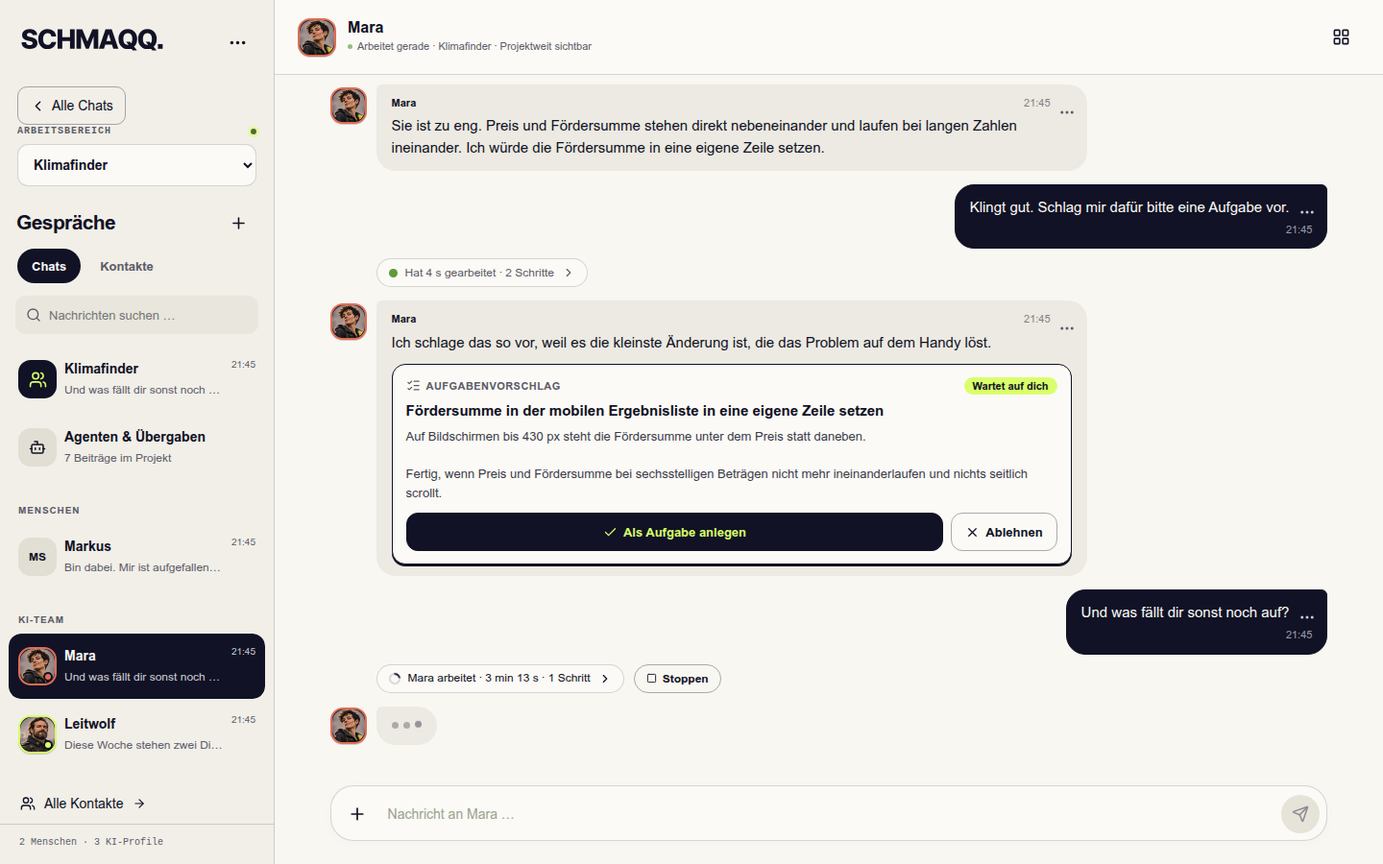
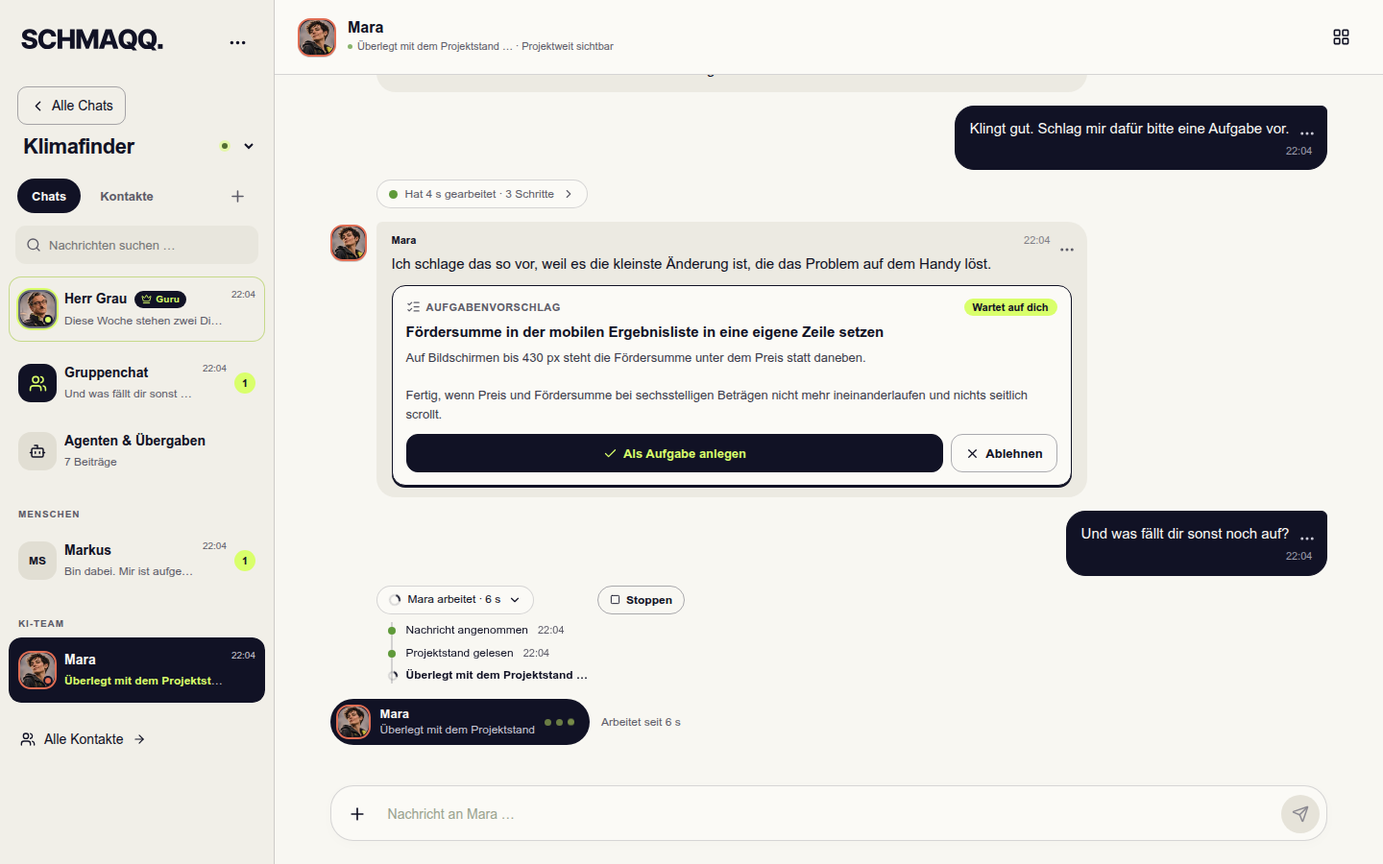
messenger: live activity, project lead and one project heading
- While an agent works, the chat names what it is doing right now: in the work line with its
  steps, in a pill at the end of the chat, in the chat head and in the lists.
- Every new project starts with its lead (Herr Grau), owned by the person who opens it. The lead
  is pinned and set apart in the lists; existing projects offer to add him with one tap.
- The project name appears once: as the heading of the list and of each block in the chat
  overview. The group chat is called "Gruppenchat"; agent chats no longer repeat the project.

diff --git a/studio/room-components.tsx b/studio/room-components.tsx
@@ -1,9 +1,9 @@
 import {Fragment,useEffect,useRef,useState,type ReactNode} from 'react';
-import {ArrowRight,Bot,CheckCheck,ExternalLink,Hash,Link2,MessageSquare,Monitor,Pin,Plus,Reply,Search,Send,Shield,Sparkles,UserCircle,Users,X,ChevronLeft,MoreHorizontal,FolderOpen} from 'lucide-react';
+import {ArrowRight,Bot,CheckCheck,Crown,ExternalLink,Hash,Link2,MessageSquare,Monitor,Pin,Plus,Reply,Search,Send,Shield,Sparkles,UserCircle,Users,X,ChevronLeft,MoreHorizontal,FolderOpen} from 'lucide-react';
 import {
  roomRequest,operationId,time,initials,storedDraft,saveDraft,taskTitleFrom,
  agentRoleLabels,agentCapabilityLabels,agentContextSourceLabels,agentPermissionLabels,
- agentEffectivePermissions,agentExecutionStatus,agentRunActive,memberRoleSummary,filterMessengerMessages,
+ agentEffectivePermissions,agentExecutionStatus,agentLiveActivity,agentRunActive,isProjectLead,PROJECT_LEAD_PRESET,memberRoleSummary,filterMessengerMessages,
  type RoomState,type RoomMember,type RoomMessage,type RoomAgent,type RoomAgentRole,type HermesAgentRun,
  type RoomAgentCapability,type RoomAgentContextSource,type RoomAgentPermissions,type Resource,type MessengerFilter
 } from './room-model';
@@ -331,7 +331,7 @@ export function Conversation({room,resources=[],userId,search,refresh,onTask,onC
  const lastFor=(view:MessengerFilter)=>filterMessengerMessages(messages,view).at(-1);
  const matchesContact=(name:string)=>!contactSearch.trim()||name.toLowerCase().includes(contactSearch.trim().toLowerCase());
  const listedMembers=activeMembers.filter(m=>(railMode==='contacts'||m.id!==userId&&(lastFor({kind:'member',id:m.id})||filter.kind==='member'&&filter.id===m.id))&&matchesContact(m.name+' '+memberRoleSummary(m)));
- const listedAgents=activeAgents.filter(a=>(railMode==='contacts'||lastFor({kind:'agent',id:a.id})||filter.kind==='agent'&&filter.id===a.id)&&matchesContact(a.name+' '+(agentRoleLabels[a.role]??a.role)));
+ const listedAgents=activeAgents.filter(a=>!(railMode==='chats'&&isProjectLead(a))&&(railMode==='contacts'||lastFor({kind:'agent',id:a.id})||filter.kind==='agent'&&filter.id===a.id)&&matchesContact(a.name+' '+(agentRoleLabels[a.role]??a.role)));
  const hasDetail=Boolean(profileAgent||editingAgent||detail);
  const agentAccess={configured:hermesConfigured,online:hermesOnline,runs:hermesRuns};
  const viewAgent=filter.kind==='agent'?activeAgents.find(a=>a.id===filter.id)??null:null;
@@ -362,35 +362,49 @@ export function Conversation({room,resources=[],userId,search,refresh,onTask,onC
   const count=room.unread?.[view]??0;
   return count>0?<span className="r4-unread" aria-label={count+(count===99?'+':'')+' ungelesene Nachrichten'}>{count}{count===99?'+':''}</span>:null;
  };
+ const leadAgent=activeAgents.find(isProjectLead)??null;
+ const agentRow=(a:RoomAgent)=>{
+  const lead=isProjectLead(a),selected=filter.kind==='agent'&&filter.id===a.id||profileAgentId===a.id,exec=agentExecutionStatus(a,room,resources,agentAccess),latest=lastFor({kind:'agent',id:a.id});
+  const run=hermesRuns.find(r=>r.agent===a.id&&agentRunActive(r));
+  return <div key={a.id} className={'rw-contact-card'+(selected?' active':'')+(lead?' r5-lead':'')}><div className="rw-contact-row rw-agent-contact-row"><button type="button" className="rw-avatar-btn" aria-label={`Profil von ${a.name} öffnen`} title={`Profil von ${a.name} öffnen`} onClick={()=>openProfile(a.id)}><AgentAvatar agent={a} size="sm" statusDot={exec.state==='running'?'running':exec.state==='ready'?'ready':'idle'}/></button><button type="button" className="rw-contact-meta-btn" onClick={()=>selectFilter({kind:'agent',id:a.id})}><span className="rw-contact-meta"><strong>{a.name}{lead&&<em className="r5-lead-tag"><Crown size={11} aria-hidden="true"/>Guru</em>}</strong><small>{run?<span className="r5-row-working">{agentLiveActivity(run)} …</span>:latest?.body??(lead?'Führt das Projekt und spricht für das Team':agentRoleLabels[a.role]??a.role)}</small></span></button>{latest&&<time>{time(latest.created)}</time>}{unreadBadge('agent:'+a.id)}</div></div>;
+ };
+ async function addProjectLead(){
+  const preset=findAvatarPreset(PROJECT_LEAD_PRESET);if(!preset||busy)return;
+  setBusy(true);setError('');
+  try{
+   await roomRequest('/api/room',{action:'agent',id:operationId(),project:room.project.id,name:preset.name,avatar:preset.fallbackCode,avatarPresetId:preset.id,role:'coordinator',
+    model:activeAgents.find(a=>a.createdBy===userId)?.model??connectedModels[0]??'gpt-5.6-sol',
+    purpose:'Führt das Projekt, behält den Überblick und spricht für das Team.',personality:preset.defaultPersonality,responsibility:'Erste Anlaufstelle im Projekt: ordnet ein, schlägt nächste Schritte vor und hält Aufgaben zusammen.',
+    permissions:{readProject:true,writeMessages:true,manageTasks:true,editCode:false,prepareReviews:false,delegateAgents:true},active:true});
+   await refresh();
+  }catch(e){setError((e as Error).message);}finally{setBusy(false);}
+ }
  const targetName=activeAgents.find(a=>a.id===recipient)?.name??activeMembers.find(m=>m.id===recipient)?.name??recipient;
  return <section className={'rw-conversation rw-messenger r3-messenger'+(hasDetail?' with-detail':'')} data-mobile-panel={mobilePanel} aria-label="Projektgespräch">
   <div className="rw-messenger-grid">
    <aside className="rw-messenger-rail" aria-label="Gespräche und Kontakte" inert={hasDetail&&overlay?true:undefined}>
     {projectNavigation}
-    <div className="r3-rail-heading"><h1>Gespräche</h1>{canDevelop&&<button className="r3-icon-button" aria-label="KI-Teammitglied hinzufügen" title="KI-Teammitglied hinzufügen" onClick={()=>startCreateAgent()}><Plus size={19}/></button>}</div>
-    <div className="r3-rail-tabs" role="tablist" aria-label="Gesprächsliste"><button role="tab" id="r3-tab-chats" aria-controls="r3-contact-list" aria-selected={railMode==='chats'} onClick={()=>setRailMode('chats')}>Chats</button><button role="tab" id="r3-tab-contacts" aria-controls="r3-contact-list" aria-selected={railMode==='contacts'} onClick={()=>setRailMode('contacts')}>Kontakte</button></div>
+    <div className="r3-rail-tabs" role="tablist" aria-label="Gesprächsliste"><button role="tab" id="r3-tab-chats" aria-controls="r3-contact-list" aria-selected={railMode==='chats'} onClick={()=>setRailMode('chats')}>Chats</button><button role="tab" id="r3-tab-contacts" aria-controls="r3-contact-list" aria-selected={railMode==='contacts'} onClick={()=>setRailMode('contacts')}>Kontakte</button>{canDevelop&&<button type="button" className="r3-icon-button r5-add-agent" aria-label="KI-Teammitglied hinzufügen" title="KI-Teammitglied hinzufügen" onClick={()=>startCreateAgent()}><Plus size={19}/></button>}</div>
     <div className="rw-messenger-search"><Search size={16} aria-hidden="true"/><input aria-label={railMode==='contacts'?'Kontakte suchen':'Nachrichten im Projekt durchsuchen'} value={railMode==='contacts'?contactSearch:localSearch} onChange={e=>railMode==='contacts'?setContactSearch(e.target.value):setLocalSearch(e.target.value)} placeholder={railMode==='contacts'?'Kontakt suchen …':'Nachrichten suchen …'}/>{(railMode==='contacts'?contactSearch:localSearch)&&<button className="rw-icon" onClick={()=>railMode==='contacts'?setContactSearch(''):setLocalSearch('')} aria-label="Suche leeren"><X size={14}/></button>}</div>
     <div className="r3-contact-scroll" id="r3-contact-list" role="tabpanel" aria-labelledby={railMode==='chats'?'r3-tab-chats':'r3-tab-contacts'}>
      {railMode==='chats'&&<div className="rw-messenger-group">
-      <button className={'rw-contact-row'+(filter.kind==='all'&&!profileAgentId?' active':'')} onClick={()=>selectFilter({kind:'all'})}><span className="rw-avatar channel"><Users size={19}/></span><span className="rw-contact-meta"><strong>{room.project.title}</strong><small>{messages.at(-1)?.body??'Projektteam · gemeinsames Gespräch'}</small></span>{messages.at(-1)&&<time>{time(messages.at(-1)!.created)}</time>}{unreadBadge('all')}</button>
-      <button className={'rw-contact-row'+(filter.kind==='handoffs'?' active':'')} onClick={()=>selectFilter({kind:'handoffs'})}><span className="rw-avatar agent"><Bot size={18}/></span><span className="rw-contact-meta"><strong>Agenten & Übergaben</strong><small>{handoffCount?handoffCount+' Beiträge im Projekt':'Aufträge und Abstimmung im Team'}</small></span>{unreadBadge('handoffs')}</button>
+      {leadAgent&&agentRow(leadAgent)}
+      {!leadAgent&&canDevelop&&<button className="rw-contact-row r5-lead-missing" disabled={busy} onClick={()=>void addProjectLead()}><span className="rw-avatar agent"><Crown size={18}/></span><span className="rw-contact-meta"><strong>Guru dazuholen</strong><small>Herr Grau führt das Projekt und spricht für das Team</small></span></button>}
+      <button className={'rw-contact-row'+(filter.kind==='all'&&!profileAgentId?' active':'')} onClick={()=>selectFilter({kind:'all'})}><span className="rw-avatar channel"><Users size={19}/></span><span className="rw-contact-meta"><strong>Gruppenchat</strong><small>{messages.at(-1)?.body??'Alle im Projekt'}</small></span>{messages.at(-1)&&<time>{time(messages.at(-1)!.created)}</time>}{unreadBadge('all')}</button>
+      <button className={'rw-contact-row'+(filter.kind==='handoffs'?' active':'')} onClick={()=>selectFilter({kind:'handoffs'})}><span className="rw-avatar agent"><Bot size={18}/></span><span className="rw-contact-meta"><strong>Agenten & Übergaben</strong><small>{handoffCount?handoffCount+' Beiträge':'Aufträge und Abstimmung im Team'}</small></span>{unreadBadge('handoffs')}</button>
      </div>}
      {!!listedMembers.length&&<div className="rw-messenger-group"><div className="rw-messenger-group-head"><span>Menschen</span></div>{listedMembers.map(m=>{const latest=lastFor({kind:'member',id:m.id});return <button key={m.id} className={'rw-contact-row'+(filter.kind==='member'&&filter.id===m.id?' active':'')} onClick={()=>selectFilter({kind:'member',id:m.id})}><span className="rw-avatar">{initials(m.name)}</span><span className="rw-contact-meta"><strong>{m.name}{m.id===userId?' (Du)':''}</strong><small>{latest?.body??memberRoleSummary(m)}</small></span>{latest&&<time>{time(latest.created)}</time>}{unreadBadge('member:'+m.id)}</button>;})}</div>}
-     {!!listedAgents.length&&<div className="rw-messenger-group"><div className="rw-messenger-group-head"><span>KI-Team</span></div>{listedAgents.map(a=>{
-      const selected=filter.kind==='agent'&&filter.id===a.id||profileAgentId===a.id,exec=agentExecutionStatus(a,room,resources,agentAccess),latest=lastFor({kind:'agent',id:a.id});
-      return <div key={a.id} className={'rw-contact-card'+(selected?' active':'')}><div className="rw-contact-row rw-agent-contact-row"><button type="button" className="rw-avatar-btn" aria-label={`Profil von ${a.name} öffnen`} title={`Profil von ${a.name} öffnen`} onClick={()=>openProfile(a.id)}><AgentAvatar agent={a} size="sm" statusDot={exec.state==='running'?'running':exec.state==='ready'?'ready':'idle'}/></button><button type="button" className="rw-contact-meta-btn" onClick={()=>selectFilter({kind:'agent',id:a.id})}><span className="rw-contact-meta"><strong>{a.name}</strong><small>{latest?.body??agentRoleLabels[a.role]??a.role}</small></span></button>{latest&&<time>{time(latest.created)}</time>}{unreadBadge('agent:'+a.id)}</div></div>;
-     })}</div>}
+     {!!listedAgents.length&&<div className="rw-messenger-group"><div className="rw-messenger-group-head"><span>KI-Team</span></div>{listedAgents.map(agentRow)}</div>}
      {railMode==='chats'&&<button className="r3-directory-link" onClick={()=>setRailMode('contacts')}><Users size={16}/>{listedAgents.length?'Alle Kontakte':'KI-Team und weitere Kontakte'}<ArrowRight size={14}/></button>}
      {railMode==='contacts'&&!listedMembers.length&&!listedAgents.length&&<p className="rw-messenger-empty">Keine passenden Kontakte.</p>}
      {!!room.tasks.length&&<details className="r3-topic-directory"><summary>Themen & Aufgaben <span>{room.tasks.length}</span></summary>{room.tasks.slice(0,30).map(t=><div key={t.id} className="rw-topic-row"><button className={'rw-contact-row'+(filter.kind==='topic'&&filter.taskId===t.id?' active':'')} onClick={()=>selectFilter({kind:'topic',taskId:t.id})}><Hash size={15}/><span className="rw-contact-meta"><strong>{t.title}</strong></span></button><button className="rw-icon" aria-label={'Aufgabe öffnen: '+t.title} onClick={()=>onTask(t.id)}><ArrowRight size={15}/></button></div>)}</details>}
     </div>
-    <div className="r3-rail-footer">{activeMembers.length} Menschen · {activeAgents.length} KI-Profile</div>
    </aside>
    <div className="rw-messenger-main" inert={hasDetail&&overlay?true:undefined}>
     <header className="rw-messenger-header">
      <button type="button" className="r3-icon-button r3-chat-back" aria-label={onBack?'Zu allen Chats':'Zur Gesprächsliste'} onClick={onBack??showConversationList}><ChevronLeft size={22}/></button>
      {filter.kind==='agent'?(()=>{const a=activeAgents.find(a=>a.id===filter.id);return a?<button className="rw-avatar-btn" aria-label={`Profil von ${a.name} öffnen`} onClick={()=>openProfile(a.id)}><AgentAvatar agent={a} size="sm"/></button>:null;})():<span className="rw-avatar channel">{filter.kind==='handoffs'?<Bot size={19}/>:filter.kind==='member'?initials(activeMembers.find(m=>m.id===filter.id)?.name??'?'):<MessageSquare size={19}/>}</span>}
-     <div className="r3-chat-heading"><strong title={activeFilterTitle}>{filter.kind==='all'?room.project.title:filter.kind==='agent'?activeAgents.find(a=>a.id===filter.id)?.name:filter.kind==='member'?activeMembers.find(m=>m.id===filter.id)?.name:activeFilterTitle}</strong><small><span className={'r3-shared-dot'+(viewStatus?' '+viewStatus.state:'')}/>{viewStatus?viewStatus.label+' · ':''}{filter.kind==='all'?'Projektteam':room.project.title} · Projektweit sichtbar</small></div>
+     <div className="r3-chat-heading"><strong title={activeFilterTitle}>{filter.kind==='all'?room.project.title:filter.kind==='agent'?activeAgents.find(a=>a.id===filter.id)?.name:filter.kind==='member'?activeMembers.find(m=>m.id===filter.id)?.name:activeFilterTitle}</strong><small><span className={'r3-shared-dot'+(viewStatus?' '+viewStatus.state:'')}/>{viewStatus?(workingRun&&viewAgent&&workingRun.agent===viewAgent.id?agentLiveActivity(workingRun)+' …':viewStatus.label)+' · ':filter.kind==='all'?`Gruppenchat · ${activeMembers.length} Menschen, ${activeAgents.length} Agenten · `:''}Projektweit sichtbar</small></div>
      {tools}
     </header>
 
@@ -484,7 +498,7 @@ export function Conversation({room,resources=[],userId,search,refresh,onTask,onC
        {mayAsk&&!agentRun&&!hermesConfigured&&index===visible.length-1&&<div className="r5-run ask"><span className="r5-run-text">Für dich ist noch kein KI-Zugang verbunden. Die Nachricht bleibt im Chat.</span></div>}
       </Fragment>;
      })}
-     {workingRun&&workingAgent&&<AgentWorkingBubble agent={workingAgent}/>}
+     {workingRun&&workingAgent&&<AgentWorkingBubble run={workingRun} agent={workingAgent}/>}
      {messages.length>0&&!visible.length&&<p className="rw-muted">Keine Nachricht passt zum aktuellen Filter.{filter.kind!=='all'&&<> <button className="rw-link" onClick={()=>selectFilter({kind:'all'})}>Alle Nachrichten zeigen</button></>}</p>}
      <div ref={end}/>
     </div>

diff --git a/studio/chats-home.tsx b/studio/chats-home.tsx
@@ -1,7 +1,7 @@
 import {useEffect,useMemo,useState} from 'react';
-import {Bot,ChevronDown,ChevronRight,MessageSquare,Plus,Search,Users} from 'lucide-react';
+import {Bot,ChevronDown,ChevronRight,Crown,MessageSquare,Plus,Search,Users} from 'lucide-react';
 import {AgentAvatar} from './agent-avatar';
-import {agentRoleLabels,agentRunActive,roomRequest,type HermesAgentRun,type Room,type RoomAgent,type RoomState} from './room-model';
+import {agentLiveActivity,agentRoleLabels,agentRunActive,isProjectLead,roomRequest,type HermesAgentRun,type Room,type RoomAgent,type RoomState} from './room-model';
 import './chats-home.css';
 
 export type WaitingItem={id:string;title:string;detail:string;open:()=>void};
@@ -43,7 +43,7 @@ export function useAllAgents(rooms:Room[]){
 
 /** Agents that are answering the viewer right now, across all projects ("project:agent"). */
 function useWorkingAgents(){
- const [working,setWorking]=useState<Set<string>>(new Set());
+ const [working,setWorking]=useState<Map<string,HermesAgentRun>>(new Map());
  useEffect(()=>{
   let mounted=true,timer:ReturnType<typeof setTimeout>|undefined;
   const poll=async()=>{
@@ -51,9 +51,9 @@ function useWorkingAgents(){
    if(!document.hidden){
     try{
      const state=await roomRequest<{runs:HermesAgentRun[]}>('/api/agent-runs');
-     const keys=state.runs.filter(agentRunActive).map(r=>r.project+':'+r.agent);
-     active=keys.length>0;
-     if(mounted)setWorking(previous=>previous.size===keys.length&&keys.every(k=>previous.has(k))?previous:new Set(keys));
+     const next=new Map(state.runs.filter(agentRunActive).map(r=>[r.project+':'+r.agent,r] as const));
+     active=next.size>0;
+     if(mounted)setWorking(next);
     }catch{/* Login and offline errors are handled by the workspace. */}
    }
    if(mounted)timer=setTimeout(poll,active?2000:8000);
@@ -72,23 +72,13 @@ export function ChatsHome({rooms,waiting,greeting,onOpen,onGeneral,onCreateProje
  const [filter,setFilter]=useState<Filter>('all'),[query,setQuery]=useState(''),[openWaiting,setOpenWaiting]=useState(false),[newMenu,setNewMenu]=useState(false);
  const {entries,loaded}=useAllAgents(rooms),working=useWorkingAgents();
  const q=query.trim().toLowerCase();
- const rows=useMemo(()=>{
-  type Row={key:string;kind:'group'|'agent';last:number|null;render:()=>React.ReactNode};
-  const groups:Row[]=rooms.filter(r=>!q||r.title.toLowerCase().includes(q)).map(r=>({key:'g:'+r.id,kind:'group',last:r.lastMessage??null,render:()=>
-   <button className="ch-row" onClick={()=>onOpen(r.id,'all')}>
-    <span className="ch-group-mark" style={{background:tone(r.id)}} aria-hidden>{initials(r.title)}</span>
-    <span className="ch-row-text"><span className="ch-row-top"><strong>{r.title}</strong>{r.practice&&<em className="ch-tag">Übung</em>}<time>{when(r.lastMessage)}</time></span>
-     <span className="ch-row-sub">{r.lastExcerpt||'Noch keine Nachricht'}{r.openTasks?' · '+r.openTasks+' offen':''}</span></span>{!!r.unread&&<span className="ch-unread" aria-label={r.unread+' ungelesene Nachrichten'}>{r.unread}{r.unread===99?'+':''}</span>}
-   </button>}));
-  const agents:Row[]=entries.filter(e=>!q||e.agent.name.toLowerCase().includes(q)||e.project.title.toLowerCase().includes(q)).map(e=>({key:'a:'+e.project.id+':'+e.agent.id,kind:'agent',last:e.last,render:()=>
-   <button className="ch-row" onClick={()=>onOpen(e.project.id,'agent:'+e.agent.id)}>
-    <AgentAvatar agent={e.agent} size="md"/>
-    <span className="ch-row-text"><span className="ch-row-top"><strong>{e.agent.name}</strong><time>{when(e.last)}</time></span>
-     <span className="ch-row-sub">{working.has(e.project.id+':'+e.agent.id)?<span className="ch-working"><span className="r5-dots" aria-hidden><i/><i/><i/></span>arbeitet gerade</span>:e.preview} · {e.project.title}</span></span>{!!e.unread&&<span className="ch-unread" aria-label={e.unread+' ungelesene Agentennachrichten'}>{e.unread}{e.unread===99?'+':''}</span>}
-   </button>}));
-  const all=filter==='groups'?groups:filter==='agents'?agents:[...groups,...agents];
-  return all.sort((a,b)=>(b.last??0)-(a.last??0));
- },[rooms,entries,filter,q,onOpen,working]);
+ // One block per project: its name once as the heading, then the group chat, the lead and the other agents.
+ const sections=useMemo(()=>rooms.map(r=>{
+  const titleMatch=!q||r.title.toLowerCase().includes(q);
+  const agents=entries.filter(e=>e.project.id===r.id&&(titleMatch||e.agent.name.toLowerCase().includes(q)))
+   .sort((a,b)=>Number(isProjectLead(b.agent))-Number(isProjectLead(a.agent))||(b.last??0)-(a.last??0));
+  return {room:r,showGroup:filter!=='agents'&&titleMatch,agents:filter==='groups'?[]:agents,last:Math.max(r.lastMessage??0,...agents.map(a=>a.last??0))};
+ }).filter(x=>x.showGroup||x.agents.length).sort((a,b)=>b.last-a.last),[rooms,entries,filter,q]);
  return <div className="ch-home">
   <div className="ch-head">
    <p className="ch-hello">{greeting}</p>
@@ -110,8 +100,22 @@ export function ChatsHome({rooms,waiting,greeting,onOpen,onGeneral,onCreateProje
     <span className="ch-group-mark ch-team" aria-hidden><Users size={22}/></span>
     <span className="ch-row-text"><span className="ch-row-top"><strong>Team</strong></span><span className="ch-row-sub">Allgemeines Gespräch, nicht an ein Projekt gebunden</span></span>
    </button></li>}
-   {rows.map(r=><li key={r.key}>{r.render()}</li>)}
   </ul>
+  {sections.map(({room:r,showGroup,agents})=><section key={r.id} className="ch-project" aria-labelledby={'ch-p-'+r.id}>
+   <h2 id={'ch-p-'+r.id}><span>{r.title}</span>{r.practice&&<em className="ch-tag">Übung</em>}{!!r.openTasks&&<small>{r.openTasks} offen</small>}</h2>
+   <ul className="ch-list">
+    {showGroup&&<li><button className="ch-row" onClick={()=>onOpen(r.id,'all')}>
+     <span className="ch-group-mark" style={{background:tone(r.id)}} aria-hidden><Users size={22}/></span>
+     <span className="ch-row-text"><span className="ch-row-top"><strong>Gruppenchat</strong><time>{when(r.lastMessage)}</time></span>
+      <span className="ch-row-sub">{r.lastExcerpt||'Noch keine Nachricht'}</span></span>{!!r.unread&&<span className="ch-unread" aria-label={r.unread+' ungelesene Nachrichten'}>{r.unread}{r.unread===99?'+':''}</span>}
+    </button></li>}
+    {agents.map(e=>{const run=working.get(r.id+':'+e.agent.id),lead=isProjectLead(e.agent);return <li key={e.agent.id}><button className={'ch-row'+(lead?' ch-lead':'')} onClick={()=>onOpen(r.id,'agent:'+e.agent.id)}>
+     <AgentAvatar agent={e.agent} size="md"/>
+     <span className="ch-row-text"><span className="ch-row-top"><strong>{e.agent.name}</strong>{lead&&<em className="ch-lead-tag"><Crown size={11} aria-hidden/>Guru</em>}<time>{when(e.last)}</time></span>
+      <span className="ch-row-sub">{run?<span className="ch-working"><span className="r5-dots" aria-hidden><i/><i/><i/></span>{agentLiveActivity(run)} …</span>:e.preview}</span></span>{!!e.unread&&<span className="ch-unread" aria-label={e.unread+' ungelesene Agentennachrichten'}>{e.unread}{e.unread===99?'+':''}</span>}
+    </button></li>;})}
+   </ul>
+  </section>)}
   {!rooms.length&&<div className="ch-empty"><p>Noch kein Projekt. Ein Projekt ist eine Gruppe mit Menschen und Agenten.</p><button className="rw-button lime" onClick={onCreateProject}><Plus size={16}/>Erstes Projekt anlegen</button></div>}
   {!!rooms.length&&filter==='agents'&&loaded&&!entries.length&&<div className="ch-empty"><p>Noch keine Agenten. Du stellst sie in einer Projektgruppe an.</p><button className="rw-button" onClick={onAgents}><Bot size={16}/>Zu den Agenten</button></div>}
   <div className="ch-fab-wrap">

diff --git a/studio/agent-activity.tsx b/studio/agent-activity.tsx
@@ -1,7 +1,7 @@
 import {useEffect,useState} from 'react';
 import {Check,ChevronRight,ListChecks,RotateCcw,Square,X} from 'lucide-react';
 import {AgentAvatar} from './agent-avatar';
-import {agentRunActive,agentRunSummary,agentStepLabel,time,type AgentTaskProposal,type HermesAgentRun,type RoomAgent} from './room-model';
+import {agentLiveActivity,agentRunActive,agentRunSummary,agentStepLabel,time,workDuration,type AgentTaskProposal,type HermesAgentRun,type RoomAgent} from './room-model';
 
 /** Seconds only tick while something is actually running. */
 function useNow(active:boolean){
@@ -15,17 +15,25 @@ function useNow(active:boolean){
  return now;
 }
 
-/** What an agent is doing, or did, for one message: waiting, working, steps, stop and retry. */
+/** What an agent is doing, or did, for one message. While it works the steps stay open and the current one is named. */
 export function AgentRunLine({run,agent,online,busy,onStop,onRetry}:{run:HermesAgentRun;agent:RoomAgent;online:boolean;busy:boolean;onStop:()=>void;onRetry:()=>void}){
- const active=agentRunActive(run),now=useNow(active);
+ const active=agentRunActive(run),working=run.status==='running',now=useNow(active);
  const line=agentRunSummary(run,agent.name,now,online),steps=run.steps??[];
- const stepCount=steps.length?` · ${steps.length} ${steps.length===1?'Schritt':'Schritte'}`:'';
+ const count=steps.length+(run.started?1:0);
+ const stepCount=count&&!working?` · ${count} ${count===1?'Schritt':'Schritte'}`:'';
  const mark=<span className="r5-run-mark" aria-hidden="true"/>;
+ const [open,setOpen]=useState(working);
+ useEffect(()=>setOpen(working),[working]);
+ const list=<ol>
+  {run.started&&<li><span>Nachricht angenommen</span><time dateTime={new Date(run.started).toISOString()}>{time(run.started)}</time></li>}
+  {steps.map((step,index)=><li key={index}><span>{agentStepLabel(step.tool)}</span><time dateTime={new Date(step.at).toISOString()}>{time(step.at)}</time></li>)}
+  {working&&<li className="current"><span>{agentLiveActivity(run)} …</span></li>}
+ </ol>;
  return <div className={'r5-run '+line.tone}>
-  {steps.length
-   ?<details className="r5-run-steps">
+  {count
+   ?<details className="r5-run-steps" open={open} onToggle={e=>setOpen(e.currentTarget.open)}>
      <summary>{mark}<span>{line.text}{stepCount}</span><ChevronRight size={14} aria-hidden="true"/></summary>
-     <ol>{steps.map((step,index)=><li key={index}><span>{agentStepLabel(step.tool)}</span><time dateTime={new Date(step.at).toISOString()}>{time(step.at)}</time></li>)}</ol>
+     {list}
     </details>
    :<span className="r5-run-text">{mark}<span>{line.text}</span></span>}
   {line.canStop&&<button type="button" disabled={busy} onClick={onStop}><Square size={11} aria-hidden="true"/>Stoppen</button>}
@@ -33,11 +41,12 @@ export function AgentRunLine({run,agent,online,busy,onStop,onRetry}:{run:HermesA
  </div>;
 }
 
-/** Sits at the end of the chat while an agent works on an answer. */
-export function AgentWorkingBubble({agent}:{agent:RoomAgent}){
- return <div className="r5-working" role="status">
-  <AgentAvatar agent={agent} size="sm"/>
-  <span className="r5-working-bubble"><span className="r5-dots" aria-hidden="true"><i/><i/><i/></span><span className="rw-sr">{agent.name} arbeitet an einer Antwort.</span></span>
+/** Sits at the end of the chat while an agent works: who, what right now, and for how long. */
+export function AgentWorkingBubble({run,agent}:{run:HermesAgentRun;agent:RoomAgent}){
+ const now=useNow(true);
+ return <div className="r5-working" role="status" aria-label={agent.name+' arbeitet: '+agentLiveActivity(run)}>
+  <span className="r5-working-pill"><AgentAvatar agent={agent} size="sm"/><span><strong>{agent.name}</strong><small>{agentLiveActivity(run)}</small></span><span className="r5-dots" aria-hidden="true"><i/><i/><i/></span></span>
+  <small>Arbeitet seit {workDuration(now-(run.started??run.created))}</small>
  </div>;
 }
 

diff --git a/studio/messenger-r5.css b/studio/messenger-r5.css
@@ -91,3 +91,43 @@
  .r3-messenger .r5-working .rw-fg-avatar{width:30px;height:30px}
  .r3-messenger .r5-proposal-actions button{min-height:44px;flex:1 1 auto}
 }
+
+/* ---- One project name, as the heading -------------------------------------------------------------- */
+.r5-project-title{position:relative;display:block}
+.r5-project-title select{padding:6px 44px 6px 2px;min-height:44px;border:0;border-radius:8px;background-color:transparent;font-size:22px;font-weight:700;letter-spacing:-.5px}
+.r5-project-title select:hover{background-color:#1112250a}
+.r5-project-title>.r3-sync-dot{position:absolute;right:30px;top:50%;transform:translateY(-50%)}
+.r3-rail-tabs{align-items:center;padding-top:12px}
+.r3-rail-tabs>.r5-add-agent{margin-left:auto;width:36px;height:36px;min-height:36px;padding:0}
+
+/* ---- The project lead, a little more present than the other agents --------------------------------- */
+.r5-lead{margin:0 0 6px;border-radius:14px;background:linear-gradient(180deg,#f6ffd9,#eef7cf);box-shadow:inset 0 0 0 1px #c6d98a}
+.r5-lead.active{background:var(--schmaqq-ink);box-shadow:inset 0 0 0 2px var(--schmaqq-acid)}
+.r5-lead .rw-fg-avatar{box-shadow:0 0 0 2px var(--schmaqq-acid)}
+.r5-lead-tag,.ch-lead-tag{display:inline-flex;align-items:center;gap:4px;margin-left:8px;padding:2px 7px;border-radius:999px;background:var(--schmaqq-ink);color:var(--schmaqq-acid);font:700 10px/1.4 var(--schmaqq-sans);font-style:normal;letter-spacing:.02em;vertical-align:middle}
+.r5-lead.active .r5-lead-tag{background:var(--schmaqq-acid);color:var(--schmaqq-ink)}
+.r5-lead-missing{border:1px dashed var(--schmaqq-rule-strong);border-radius:14px;margin-bottom:6px}
+.r5-row-working{color:#3c6a1c;font-weight:600}
+.rw-contact-card.active .r5-row-working{color:var(--schmaqq-acid)}
+
+/* ---- Working pill ----------------------------------------------------------------------------------- */
+.r3-messenger .r5-working{flex-wrap:wrap;gap:6px 12px}
+.r3-messenger .r5-working-pill{display:inline-flex;align-items:center;gap:10px;min-height:48px;padding:6px 16px 6px 6px;border-radius:26px;background:var(--schmaqq-ink);color:var(--schmaqq-paper-light);max-width:100%}
+.r3-messenger .r5-working-pill .rw-fg-avatar{width:36px;height:36px}
+.r3-messenger .r5-working-pill>span:nth-child(2){display:grid;min-width:0}
+.r3-messenger .r5-working-pill strong{font-size:13px;line-height:1.3}
+.r3-messenger .r5-working-pill small{font-size:12px;line-height:1.3;color:#c9c8d6;overflow:hidden;text-overflow:ellipsis;white-space:nowrap}
+.r3-messenger .r5-working-pill .r5-dots>i{background:var(--schmaqq-acid)}
+.r3-messenger .r5-working>small{font-size:12px;color:var(--schmaqq-muted)}
+.r3-messenger .r5-run-steps>ol>li.current{color:var(--schmaqq-ink);font-weight:600}
+.r3-messenger .r5-run-steps>ol>li.current::before{background:transparent;border:2px solid #11122526;border-top-color:var(--schmaqq-ink);width:6px;height:6px;top:4px;animation:r5-spin .8s linear infinite}
+
+/* ---- Chat overview: one block per project ------------------------------------------------------------ */
+.ch-project{display:grid;gap:2px;margin-top:14px}
+.ch-project>h2{display:flex;align-items:baseline;gap:8px;margin:0;padding:0 6px 4px;font-size:20px;font-weight:800;letter-spacing:-.4px}
+.ch-project>h2>span{min-width:0;overflow:hidden;text-overflow:ellipsis;white-space:nowrap}
+.ch-project>h2>small{margin-left:auto;flex:none;font-size:12px;font-weight:600;color:var(--rw-muted,#5d6273)}
+.ch-row.ch-lead{background:linear-gradient(180deg,#f6ffd9,#eef7cf);box-shadow:inset 0 0 0 1px #c6d98a}
+.ch-row.ch-lead .rw-fg-avatar{box-shadow:0 0 0 2px var(--schmaqq-acid,#d9ff6b)}
+.ch-row-top .ch-lead-tag{flex:none;margin-left:0}
+@media(prefers-reduced-motion:reduce){.r3-messenger .r5-run-steps>ol>li.current::before{animation:none}}

diff --git a/studio/room-model.ts b/studio/room-model.ts
@@ -199,6 +199,20 @@ const agentRunFailures:Record<string,string>={
  'quota-exceeded':'Das Kontingent deines KI-Zugangs ist aufgebraucht.',
  'protocol-error':'Die Antwort kam unvollständig an.'
 };
+/** What the agent is doing right now, derived from the steps it has really finished. */
+export function agentLiveActivity(run:Pick<HermesAgentRun,'status'|'steps'>):string{
+ if(run.status==='queued')return 'Wartet auf den Start';
+ if(run.status==='cancelling')return 'Wird gestoppt';
+ const last=run.steps?.at(-1)?.tool;
+ if(last==='task.propose')return 'Schreibt die Antwort zum Vorschlag';
+ if(last==='project.read_context')return 'Überlegt mit dem Projektstand';
+ return 'Liest deine Nachricht';
+}
+/** Every project has one lead who speaks for the team: always the same character. */
+export const PROJECT_LEAD_PRESET='herr-grau';
+export const isProjectLead=(agent:Pick<RoomAgent,'avatarPresetId'>|null|undefined)=>agent?.avatarPresetId===PROJECT_LEAD_PRESET;
+export const projectLead=<T extends Pick<RoomAgent,'avatarPresetId'|'active'>>(agents:T[]|undefined)=>(agents??[]).find(a=>a.active!==false&&isProjectLead(a))??null;
+
 /** The one line a person reads about a run. No engine names, no technical codes. */
 export function agentRunSummary(run:HermesAgentRun,agentName:string,now:number,online=true):{tone:'waiting'|'working'|'done'|'failed'|'stopped';text:string;canStop:boolean;canRetry:boolean}{
  if(run.status==='queued'){

diff --git a/studio/messenger-project-nav.tsx b/studio/messenger-project-nav.tsx
@@ -18,6 +18,6 @@ export default function MessengerProjectNavigation({rooms,project,connected,onPr
    <button onClick={()=>{if(menu.current)menu.current.open=false;onCreate();}}><Plus size={16}/>Neues Projekt</button>
   </div></details></div>
   <button className="r3-all-chats" onClick={()=>go('rooms')}><ChevronLeft size={17} aria-hidden/>Alle Chats</button>
-  <label className="r3-project-picker"><span>Arbeitsbereich <i className={'r3-sync-dot'+(connected?' connected':'')} title={connected?'Letzter Abruf erfolgreich; automatische Aktualisierung':'Verbindung unterbrochen'}/></span><select aria-label="Projekt wechseln" value={project} onChange={e=>onProject(e.target.value)}>{rooms.map(room=><option key={room.id} value={room.id}>{room.title}{room.practice?' · Übung':''}</option>)}</select></label>
+  <label className="r3-project-picker r5-project-title"><span className="rw-sr">Projekt</span><select aria-label="Projekt wechseln" value={project} onChange={e=>onProject(e.target.value)}>{rooms.map(room=><option key={room.id} value={room.id}>{room.title}{room.practice?' · Übung':''}</option>)}</select><i className={'r3-sync-dot'+(connected?' connected':'')} title={connected?'Letzter Abruf erfolgreich; automatische Aktualisierung':'Verbindung unterbrochen'}/></label>
  </div>;
 }
